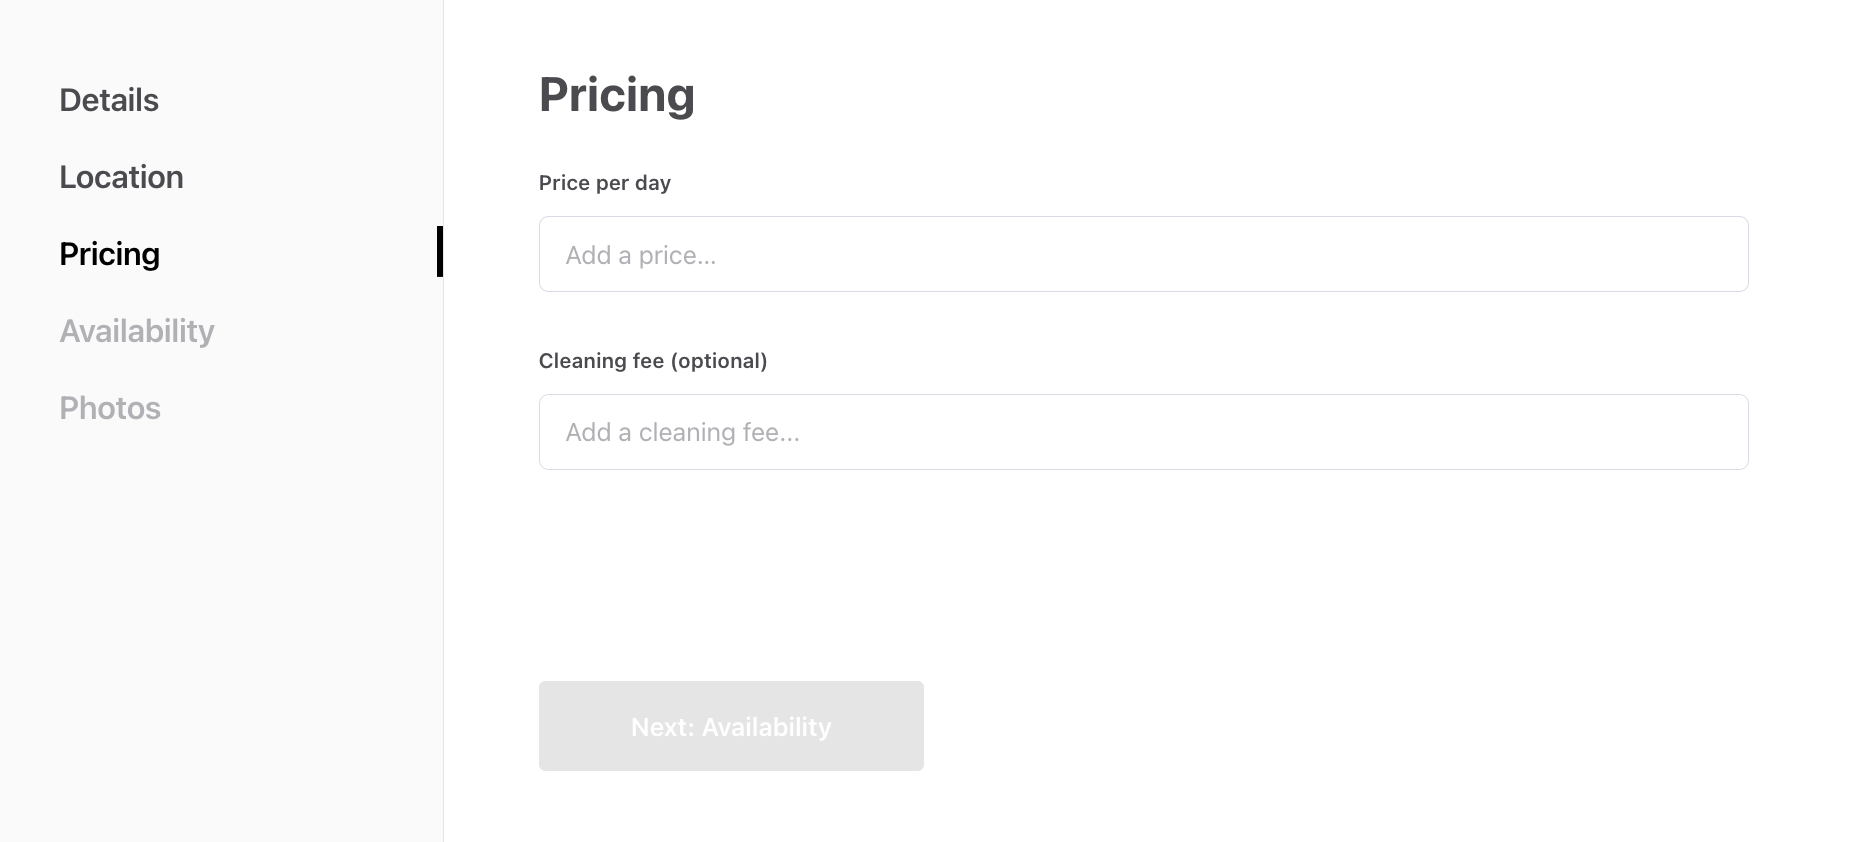
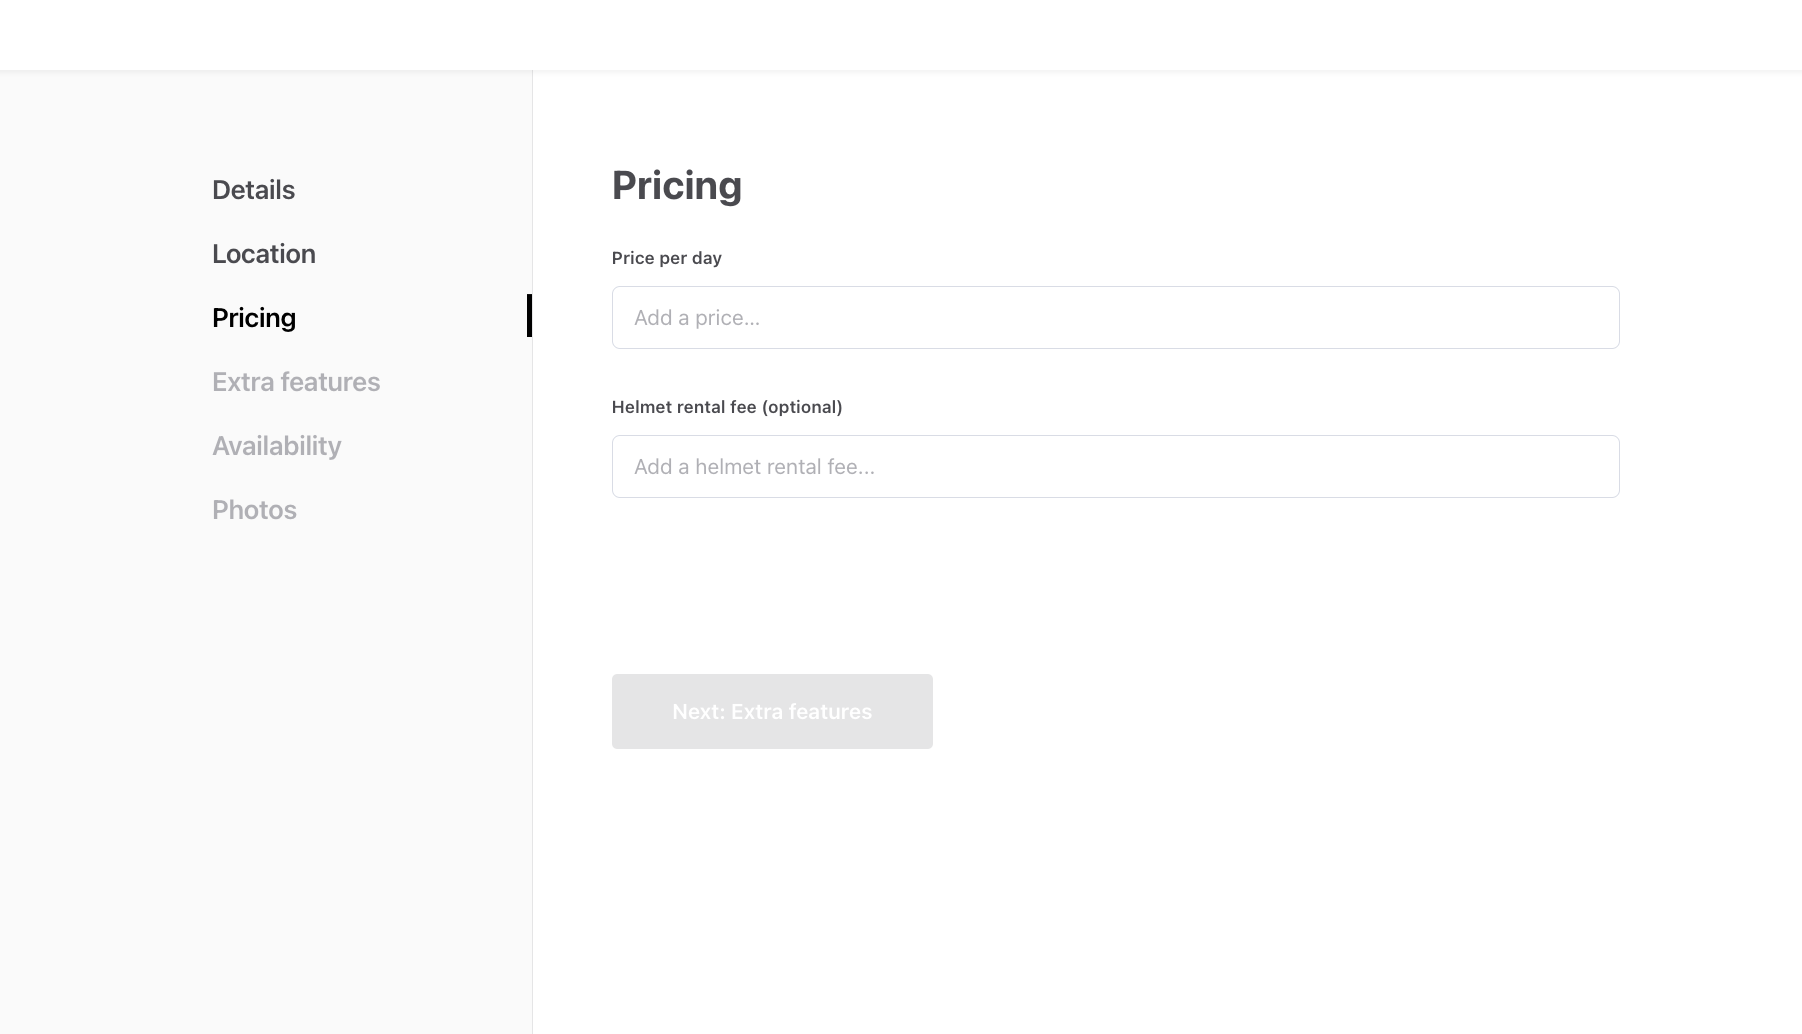
Update pricing tutorial

diff --git a/src/docs/tutorial-transaction-process/customize-pricing/index.md b/src/docs/tutorial-transaction-process/customize-pricing/index.md
@@ -169,7 +169,7 @@ You can use the following microcopy keys:
 ```
 
 After adding the new microcopy keys, the EditListingPricingPanel should
-look something like this: TODO UPDATE IMAGE
+look something like this:
 ![EditListingPricePanel](./editlistingpricepanel.png)
 
 ## Update BookingDatesForm
@@ -306,13 +306,13 @@ formatting. This function expects a Money object as a parameter, so we
 need to do the conversion.
 
 ```jsx
-const formattedCleaningFee = helmetFee
+const formattedHelmetFee = helmetFee
   ? formatMoney(intl, new Money(helmetFee.amount, helmetFee.currency))
   : null;
 
 const helmetFeeLabel = intl.formatMessage(
   { id: 'BookingDatesForm.helmetFeeLabel' },
-  { fee: formattedCleaningFee }
+  { fee: formattedHelmetFee }
 );
 ```
 
@@ -375,6 +375,7 @@ class to _BookingDatesForm.module.css_.
 After this step, the BookingDatesForm should look like this. Note that
 the helmet rental fee will not be visible in the order breakdown yet,
 even though we added the new checkbox. TODO UPDATE IMAGE
+
 ![Helmet rental fee checkbox](./helmetFeeCheckbox.png)
 
 ### Update the orderData
@@ -421,9 +422,9 @@ manipulated.
 In our case, because there is just one checkbox, it's enough to check
 the length of that array to determine if any items are selected. If the
 length of the _helmetFee_ array inside _values_ is bigger than 0, the
-_hasCleaningFee_ param is true, and otherwise it is false. If we had
-more than one item in the checkbox group, we should check which items
-were selected.
+_hasHelmetFee_ param is true, and otherwise it is false. If we had more
+than one item in the checkbox group, we should check which items were
+selected.
 
 ```jsx
 const handleFormSpyChange = (
@@ -437,14 +438,14 @@ const handleFormSpyChange = (
       ? formValues.values.bookingDates
       : {};
 
-  const hasCleaningFee = formValues.values?.helmetFee?.length > 0;
+  const hasHelmetFee = formValues.values?.helmetFee?.length > 0;
 
   if (startDate && endDate && !fetchLineItemsInProgress) {
     onFetchTransactionLineItems({
       orderData: {
         bookingStart: startDate,
         bookingEnd: endDate,
-        hasCleaningFee,
+        hasHelmetFee,
       },
       listingId,
       isOwnListing,
@@ -473,15 +474,11 @@ can also build your own server-side validation that sits between your
 marketplace UI and the Flex Marketplace API to invoke privileged
 transitions.
 
-<br/>
-
 We are using privileged transitions and the backend of our client app to
 construct line items, because we want to make sure it is done in a
 secure context. If the client-side code (template front-end) could
 freely construct the line items, we couldn't fully trust that the price
 calculation follows the model intended in the marketplace.
-
-<br/>
 
 In theory, a marketplace user could make a direct API call to the Flex
 Marketplace API and start a transaction with modified line items – for
@@ -489,8 +486,6 @@ instance, change the helmet rental fee amount. We can avoid this
 security risk by using privileged transitions and fetching the pricing
 information, like the helmet rental fee amount, directly from
 Marketplace API in the backend of our client app.
-
-<br/>
 
 You can read more about privileged transitions in the
 [privileged transitions concepts article](/concepts/privileged-transitions/).
@@ -521,7 +516,7 @@ function from the `lineItemHelpers.js` file instead, and import it in
 `lineItems.js`.
 
 ```jsx
-const resolveCleaningFeePrice = listing => {
+const resolveHelmetFeePrice = listing => {
   const publicData = listing.attributes.publicData;
   const helmetFee = publicData && publicData.helmetFee;
   const { amount, currency } = helmetFee;
@@ -561,7 +556,7 @@ exports.transactionLineItems = (listing, orderData) => {
     includeFor: ['customer', 'provider'],
   };
 
-+ const helmetFeePrice = orderData.hasCleaningFee ? resolveCleaningFeePrice(listing) : null;
++ const helmetFeePrice = orderData.hasHelmetFee ? resolveHelmetFeePrice(listing) : null;
 + const helmetFee = helmetFeePrice
 +   ? [
 +       {
@@ -606,8 +601,8 @@ exports.transactionLineItems = (listing, orderData) => {
 
 Once we have made the changes to the backend of our client app, we can
 check the order breakdown again. If you now choose the helmet rental
-fee, you should see the helmet rental fee in the booking breakdown: TODO
-UPDATE IMAGE
+fee, you should see the helmet rental fee in the booking breakdown:
+
 ![Helmet fee in booking breakdown](./helmetFeeBookingBreakdown.png)
 
 ## Update CheckoutPage to handle helmet rental fee
@@ -644,7 +639,7 @@ const getOrderParams = (pageData, shippingDetails, optionalPaymentParams, config
   const quantityMaybe = quantity ? { quantity } : {};
   const deliveryMethod = pageData.orderData?.deliveryMethod;
   const deliveryMethodMaybe = deliveryMethod ? { deliveryMethod } : {};
-+ const hasCleaningFee = pageData.orderData?.helmetFee?.length > 0;
++ const hasHelmetFee = pageData.orderData?.helmetFee?.length > 0;
 
   const { listingType, unitType } = pageData?.listing?.attributes?.publicData || {};
   const protectedDataMaybe = {
@@ -660,7 +655,7 @@ const getOrderParams = (pageData, shippingDetails, optionalPaymentParams, config
   const orderParams = {
     listingId: pageData?.listing?.id,
     ...deliveryMethodMaybe,
-+   hasCleaningFee,
++   hasHelmetFee,
     ...quantityMaybe,
     ...bookingDatesMaybe(pageData.orderData?.bookingDates),
     ...protectedDataMaybe,
@@ -678,7 +673,8 @@ parameters provided.
 
 Now when the customer selects helmet rental fee on the listing page and
 clicks "Request to book", we see the correct price and breakdown on the
-checkout page. TODO UPDATE IMAGE
+checkout page.
+
 ![Helmet fee in booking breakdown on checkout page](./checkoutPageBreakdown.png)
 
 The same function builds order parameters that get passed to the final
@@ -699,8 +695,8 @@ process, then composes them into a single function
 Now you can try it out! When you complete a booking on a listing that
 has a helmet rental fee specified, you can see the helmet rental fee
 included in the price on the booking page. In addition, the Flex Console
-transaction price breakdown also shows the helmet rental fee. TODO
-UPDATE IMAGE
+transaction price breakdown also shows the helmet rental fee.
+
 ![Helmet fee in booking breakdown in Flex Console](./consoleBookingBreakdown.png)
 
 <extrainfo title="Add helmet rental fee to email notifications">
@@ -708,28 +704,36 @@ To add the helmet rental fee into your email notifications, you will need to add
 The <a href="/docs/tutorial/use-protected-data-in-emails/">third step of this tutorial</a> deals with updating email notifications.
 
 ```diff
-      {{#each tx-line-items}}
-        {{#contains include-for "provider"}}
-          {{#eq "line-item/day" code}} ...
-
-+          {{#eq "line-item/helmet-rental-fee" code}}
-+            <tr class="bottom-row">
-+              <td>Helmet fee</td>
-+              <td class="right">{{> format-money money=line-total}}</td>
-+            </tr>
-+          {{/eq}}
-
-          {{#eq "line-item/provider-commission" code}} ...
-        {{/contains}}
-      {{/each}}
+...
+-       {{/if}}{{/eq}}{{#eq "line-item/provider-commission" code}}
++       {{/if}}{{/eq}}
++       {{#eq "line-item/helmet-rental-fee" code}}
++       <table align="center" border="0" cellPadding="0" cellSpacing="0" role="presentation" width="100%">
++         <tbody>
++           <tr>
++             <td>
++               <td>
++                 <p style="font-size:16px;line-height:1.4;margin:16px 0;color:#484848;margin-top:1px">Helmet rental fee</p>
++               </td>
++               <td style="text-align:right">
++                 <p style="font-size:16px;line-height:1.4;margin:16px 0;color:#484848;margin-top:1px">{{> format-money money=line-total}}</p>
++               </td>
++             </td>
++           </tr>
++         </tbody>
++       </table>
++       {{/eq}}
++       {{#eq "line-item/provider-commission" code}}
+        <table align="center" border="0" cellPadding="0" cellSpacing="0" role="presentation" width="100%">
+...
 ```
 
 The email templates that list the full line items in the default booking
 process are
 
-- `new-booking-request` (to provider)
+- `booking-new-request` (to provider)
 - `booking-request-accepted` (to customer)
-- `money-paid` (to provider)
+- `booking-money-paid` (to provider)
 
 </extrainfo>
 

diff --git a/src/docs/tutorial-listings/new-wizard-tab/index.md b/src/docs/tutorial-listings/new-wizard-tab/index.md
@@ -459,18 +459,23 @@ else if (tab === EXTRAFEATURES) {
 
 The `tabCompleted` function checks whether a specific wizard tab is
 completed. The way it checks this is by verifying whether the listing
-has values in the necessary attributes. Since the
-EditListingExtraFeaturesPanel saves the extra features in the listing’s
-publicData under the `extraFeatures` attribute, we will add a case to
-the switch statement that checks whether `publicData.extraFeatures` has
-a value.
+has values in the necessary attributes.
+
+Since the EditListingExtraFeaturesPanel is not a required attribute, we
+we will add a case to the switch statement and just return `true`
+whether or not it has a value. The panel saves the extra feature
+information in the listing’s publicData under the `extraFeatures`
+attribute, so if this was a required feature, we would check whether
+`publicData.extraFeatures` has a value.
 
 ```
 …
     case PHOTOS:
       return images && images.length > 0;
     case EXTRAFEATURES:
-      return !!publicData.extraFeatures;
+      return true;
+      // /** For a required attribute: **/
+      // return !!publicData.extraFeatures;
     default:
       return false;
 ```
